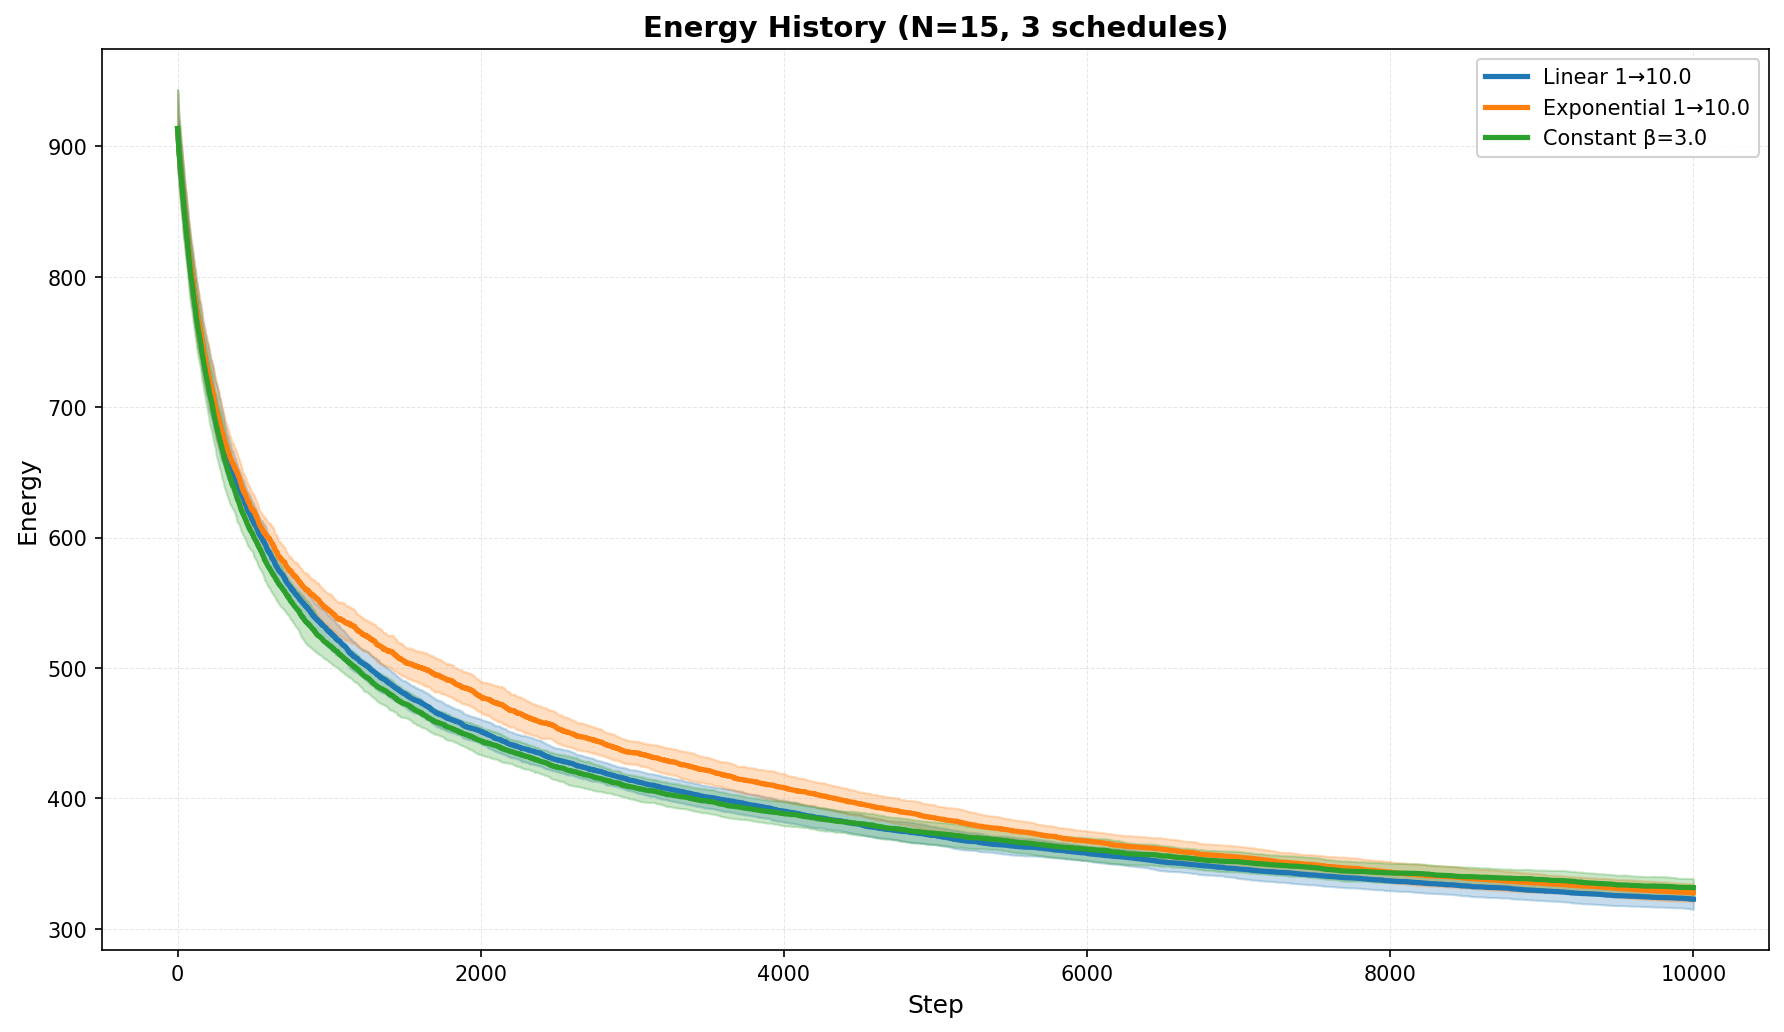
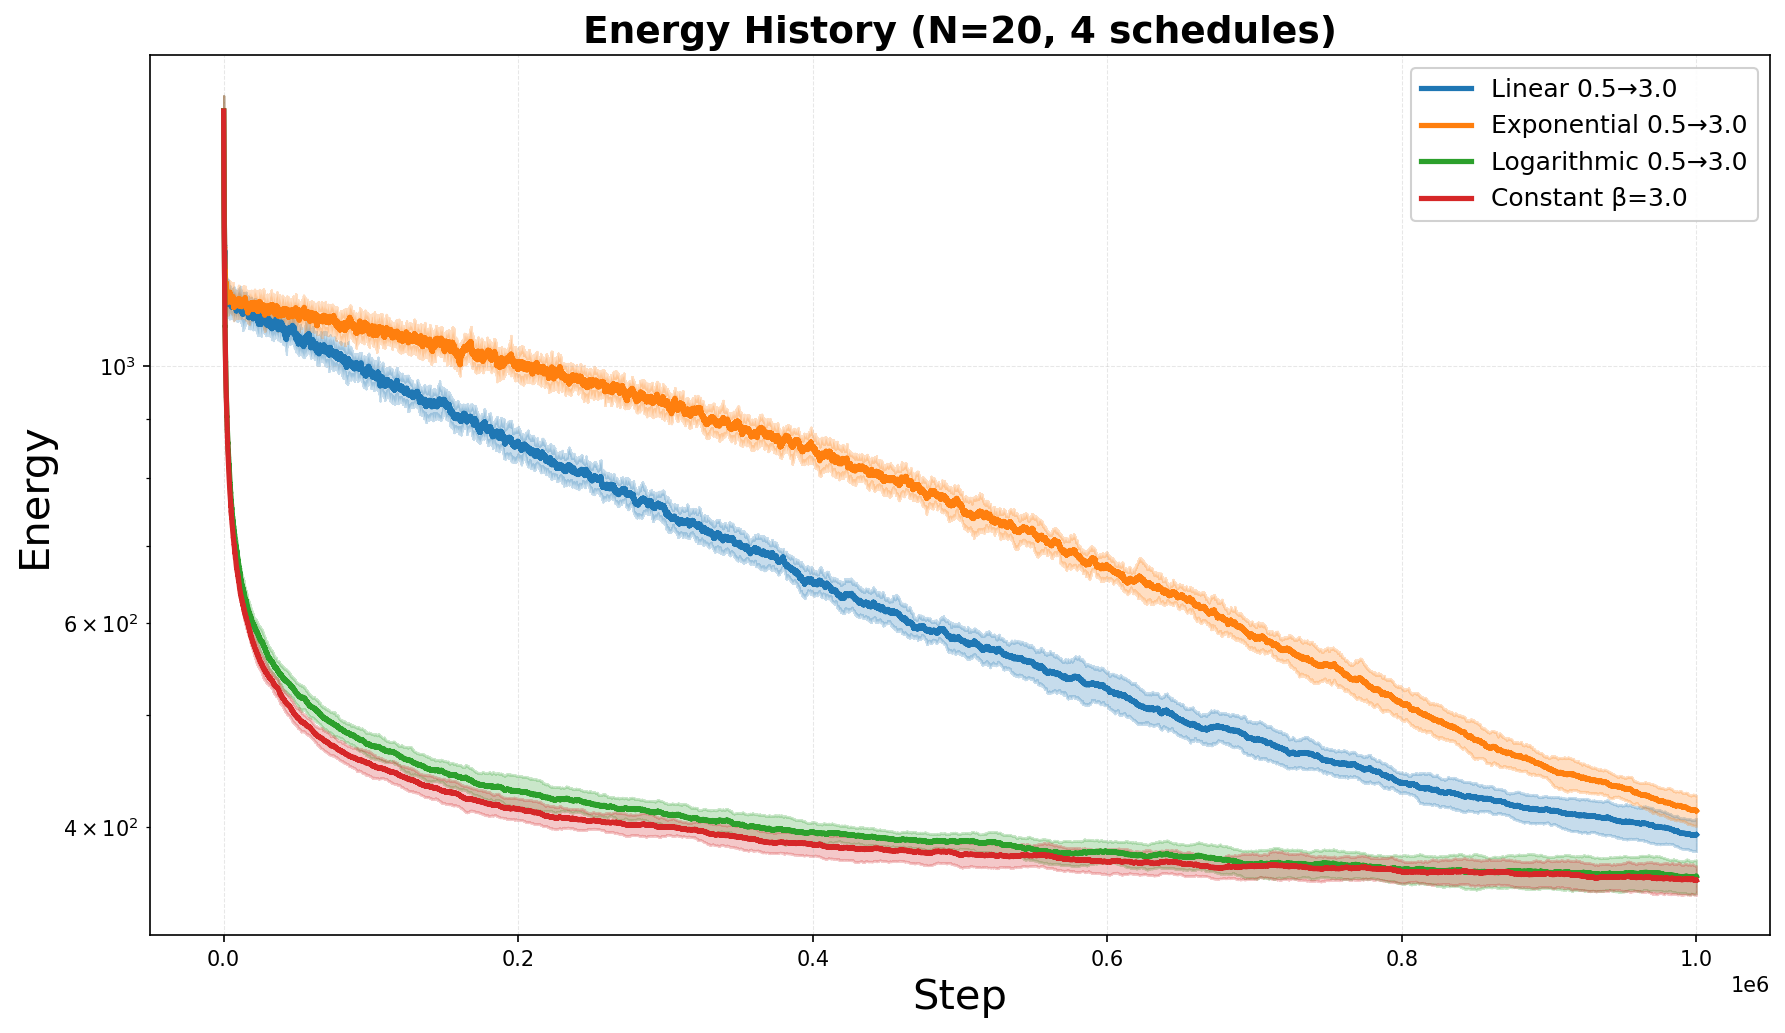
Added logarithmic annealing

diff --git a/experiments.py b/experiments.py
@@ -60,6 +60,24 @@ def exponential_annealing_beta(beta_start, beta_end, n_steps):
 
     return schedule
 
+def logarithmic_annealing_beta(beta_start, beta_end, n_steps):
+    """
+    Logarithmic annealing: beta grows quickly early, then slows down.
+    β(step) = β_start + (β_end - β_start) * log(1 + step) / log(1 + n_steps)
+    """
+    if n_steps <= 1:
+        def schedule(_):
+            return beta_end
+        return schedule
+
+    log_norm = np.log(1 + n_steps)  # denominator (constant)
+
+    def schedule(step):
+        step = np.clip(step, 0, n_steps)
+        return beta_start + (beta_end - beta_start) * (np.log(1 + step) / log_norm)
+
+    return schedule
+
 def build_schedule_from_params(sched_type, n_steps, beta_const=None, beta_start=None, beta_end=None):
     """
     Build a beta schedule from parameters. This function is picklable and can be used
@@ -77,6 +95,10 @@ def build_schedule_from_params(sched_type, n_steps, beta_const=None, beta_start=
         if beta_start is None or beta_end is None:
             raise ValueError("beta_start and beta_end required for exponential_annealing schedule")
         return exponential_annealing_beta(beta_start, beta_end, n_steps)
+    elif sched_type == "logarithmic_annealing":
+        if beta_start is None or beta_end is None:
+            raise ValueError("beta_start and beta_end required for logarithmic_annealing schedule")
+        return logarithmic_annealing_beta(beta_start, beta_end, n_steps)
     else:
         raise ValueError(f"Unknown betta_scheduling type: {sched_type}")
 
@@ -104,6 +126,11 @@ def build_schedule_from_common(common_cfg, n_steps):
         beta_end = sched_cfg["beta_end"]
         schedule_params = {"type": "exponential_annealing", "beta_start": beta_start, "beta_end": beta_end}
         desc = f"exp beta: {beta_start}→{beta_end}"
+    elif sched_type == "logarithmic_annealing":
+        beta_start = sched_cfg["beta_start"]
+        beta_end = sched_cfg["beta_end"]
+        schedule_params = {"type": "logarithmic_annealing", "beta_start": beta_start, "beta_end": beta_end}
+        desc = f"log beta: {beta_start}→{beta_end}"
     else:
         raise ValueError(f"Unknown betta_scheduling type: {sched_type}")
 
@@ -138,6 +165,10 @@ def build_schedules_from_types(sched_types, sched_cfg, n_steps):
             schedule_params = {"type": "exponential_annealing", "beta_start": beta_start, "beta_end": beta_end}
             desc = f"exp beta: {beta_start}→{beta_end}"
             label = f"Exponential {beta_start}→{beta_end}"
+        elif sched_type == "logarithmic_annealing":
+            schedule_params = {"type": "logarithmic_annealing", "beta_start": beta_start, "beta_end": beta_end}
+            desc = f"log beta: {beta_start}→{beta_end}"
+            label = f"Logarithmic {beta_start}→{beta_end}"
         else:
             raise ValueError(f"Unknown betta_scheduling type: {sched_type}")
 
@@ -567,7 +598,7 @@ def run_beta_start_end_pairs(
         N: Board size
         n_steps: Number of MCMC steps
         beta_start_ends: List of [beta_start, beta_end] pairs, e.g., [[0.1, 1.0], [2.0, 5.0]]
-        annealing_type: Type of annealing schedule ("linear_annealing" or "exponential_annealing")
+        annealing_type: Type of annealing schedule ("linear_annealing", "logarithmic_annealing", or "exponential_annealing")
         init_mode: Initialization mode
         n_runs: Number of runs per pair
         base_seed: Base seed for random number generation
